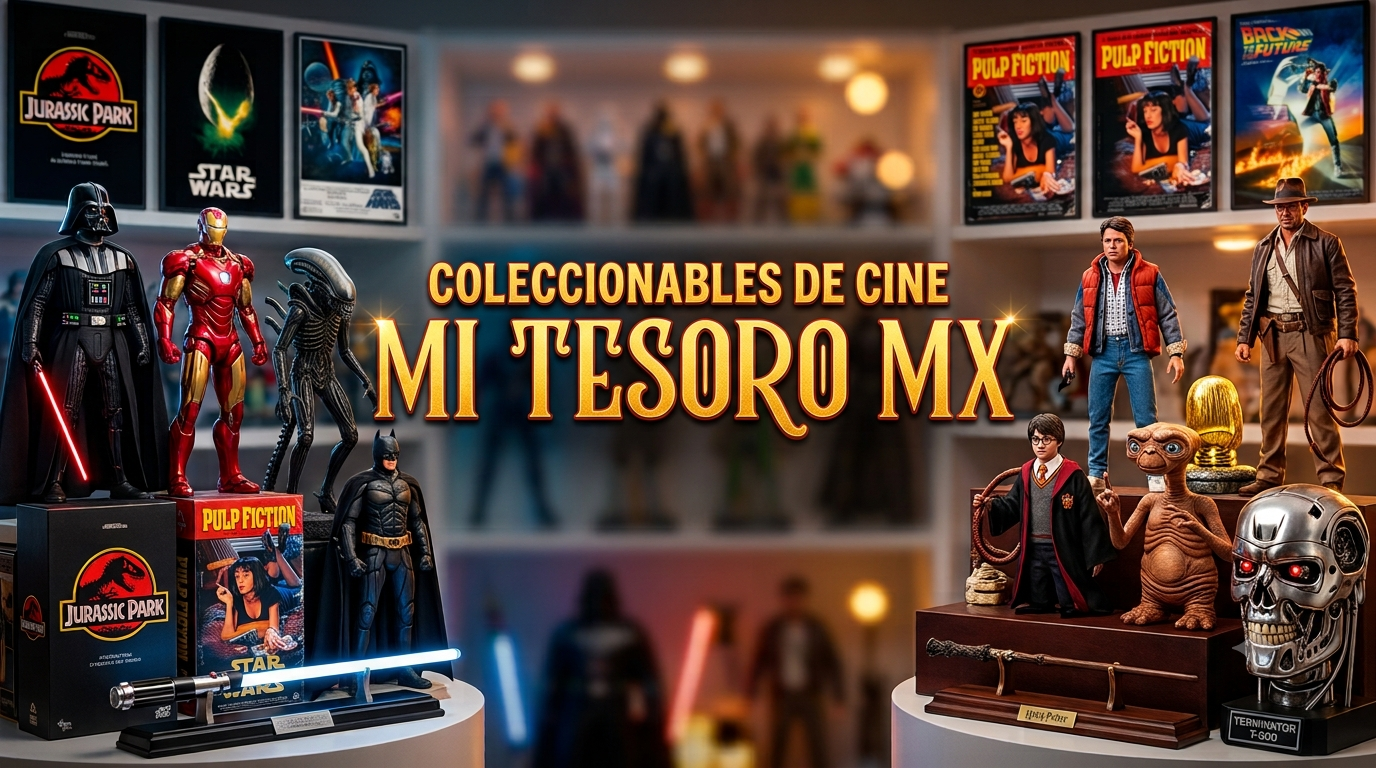
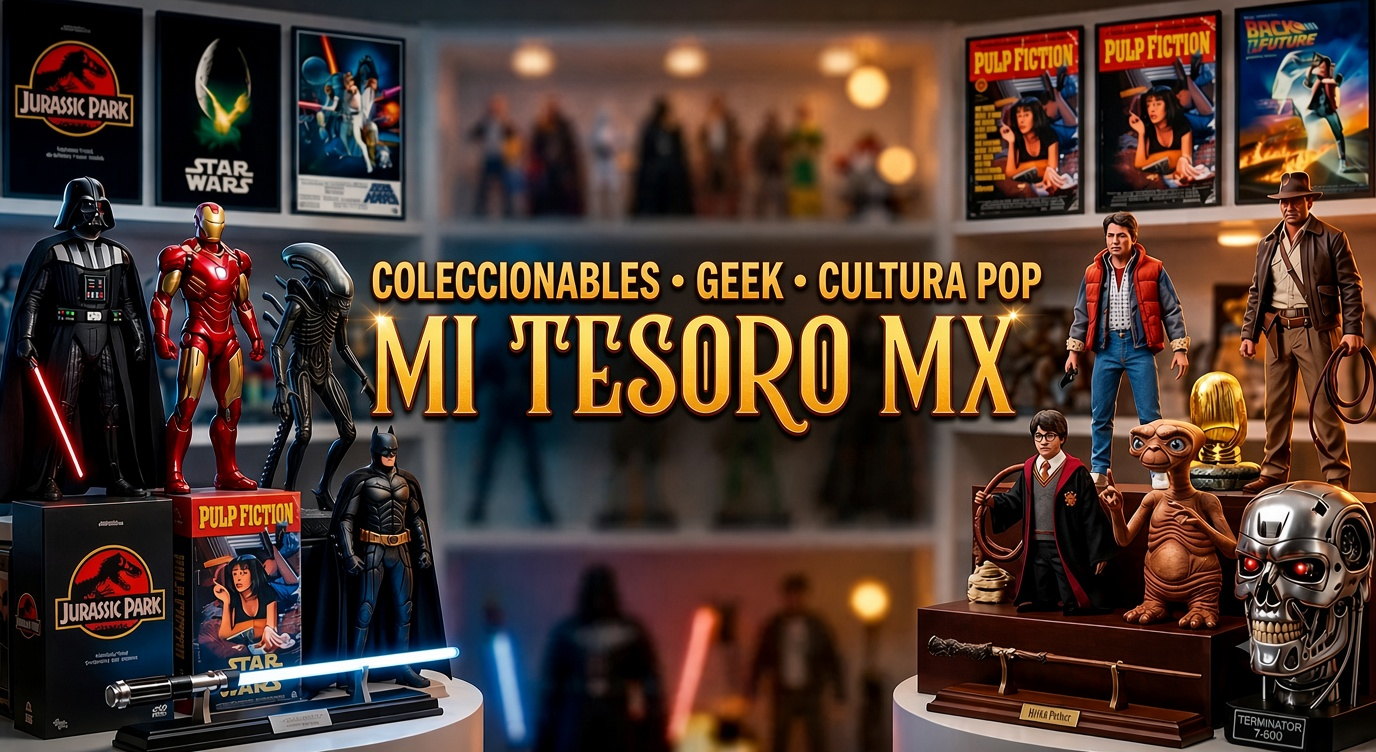
cambios nuevos

diff --git a/script.js b/script.js
@@ -624,8 +624,8 @@ function mostrarProductos() {
                    : ""
                }
 
-               ${p.stock > 0 && p.precio != 999 && p.precio != 333
-                 ? `<p class="viendo-ahora">👀 ${viendo} persona${viendo === 1 ? "" : "s"} viendo esto</p>`
+               ${p.stock > 0 && p.stock <= 5 && p.precio != 999 && p.precio != 666
+                 ? `<p class="viendo-ahora">👀 ${Math.min(p.stock + 1, 4)} persona${p.stock === 1 ? "" : "s"} viendo esto</p>`
                  : ""
                }
             <button type="button" class="btn-wishlist ${esFavorito ? "activo" : ""}"
@@ -979,18 +979,21 @@ function actualizarCarritoUI() {
        </div>
      </div>
 
-     ${cuponAplicado ? `
-       <div class="cart-coupon-activo">
-         <span>Cupón <strong>${cuponAplicado.codigo}</strong> aplicado</span>
-         <button type="button" id="btnBorrarCupon" class="btn-borrar-cupon">Borrar cupón</button>
-       </div>
-     ` : `
-       <div class="cart-coupon">
-         <input type="text" id="inputCupon" placeholder="Código de cupón" maxlength="20" autocomplete="off">
-         <button type="button" id="btnAplicarCupon">Aplicar</button>
-       </div>
-       <p id="cuponMsg" class="cupon-msg" hidden></p>
-     `}
+    ${cuponAplicado ? `
+      <div class="cart-coupon-activo">
+        <span>Cupón <strong>${cuponAplicado.codigo}</strong> aplicado</span>
+        <button type="button" id="btnBorrarCupon" class="btn-borrar-cupon">Borrar cupón</button>
+      </div>
+    ` : `
+      <div class="cart-coupon">
+        <label class="cupon-label">¿Tienes un cupón?</label>
+        <div class="cupon-row">
+          <input type="text" id="inputCupon" placeholder="Código de cupón" maxlength="20" autocomplete="off">
+          <button type="button" id="btnAplicarCupon">Aplicar</button>
+        </div>
+      </div>
+      <p id="cuponMsg" class="cupon-msg" hidden></p>
+    `}
 
      <div class="cart-notas">
        <label for="notasCliente">Notas del pedido (opcional)</label>
@@ -1115,6 +1118,8 @@ function actualizarWhats(totales) {
   }
 
   const notas = document.getElementById("notasCliente")?.value?.trim() || "";
+  const cp = document.getElementById("inputCP")?.value?.trim() || "";
+  const ciudad = document.getElementById("inputCiudad")?.value?.trim() || "";
   const tipoPago = window._tipoPagoSeleccionado || "Pago total";
 
   let msg = `Hola 👋\nSoy cliente de *Mi Tesoro MX* y quiero confirmar este pedido:\n\n`;
@@ -1136,23 +1141,49 @@ function actualizarWhats(totales) {
   msg += `*TOTAL: $${totales.total.toLocaleString("es-MX")} MXN*\n`;
   msg += `━━━━━━━━━━━━━━━━\n`;
   msg += `*Tipo de pago:* ${tipoPago}\n`;
-  msg += `*Código Postal:* \n`;
-  msg += `*Ciudad / Estado:* \n`;
+
+  if (tipoPago === "Apartado 30%") {
+    const apartado = Math.ceil(totales.total * 0.3);
+    msg += `*Apartado 30%:* $${apartado.toLocaleString("es-MX")} MXN\n`;
+  }
+
+  msg += `*Código Postal:* ${cp || "(pendiente)"}\n`;
+  msg += `*Ciudad / Estado:* ${ciudad || "(pendiente)"}\n`;
   if (notas) msg += `*Notas:* ${notas}\n`;
+  msg += `\n*Política de daños:* Si llega dañado por el envío, se regala un vaso en la próxima compra (sin reembolso ni reposición).\n`;
   msg += `\nQuedo atento(a) para confirmar disponibilidad y forma de envío.\n¡Gracias! 🎬`;
 
   const whatsBtn = document.getElementById("whatsBtn");
   if (whatsBtn) {
     whatsBtn.href = `https://wa.me/${WA_NUMERO}?text=${encodeURIComponent(msg)}`;
-  }
-
-  // Actualizar texto del botón según tipo de pago
-  if (whatsBtn) {
     whatsBtn.textContent = tipoPago === "Apartado 30%"
       ? `Apartar con 30% · $${Math.ceil(totales.total * 0.3).toLocaleString("es-MX")}`
       : `Confirmar pedido · $${totales.total.toLocaleString("es-MX")} MXN`;
   }
 }
+
+document.getElementById("whatsBtn")?.addEventListener("click", (e) => {
+  const cp = document.getElementById("inputCP")?.value?.trim() || "";
+  const ciudad = document.getElementById("inputCiudad")?.value?.trim() || "";
+  const errorEl = document.getElementById("envioDatosError");
+
+  if (!cp || !ciudad) {
+    e.preventDefault();
+    if (errorEl) {
+      errorEl.hidden = false;
+      errorEl.scrollIntoView({ behavior: "smooth", block: "nearest" });
+    }
+    document.getElementById("inputCP")?.focus();
+    return;
+  }
+  if (errorEl) errorEl.hidden = true;
+});
+
+["inputCP", "inputCiudad", "notasCliente"].forEach((id) => {
+  document.getElementById(id)?.addEventListener("input", () => {
+    actualizarWhats(calcularTotalesCarrito());
+  });
+});
 
 function actualizarContadorCarrito(conPulso = false) {
   const totalItems = carrito.reduce((acc, p) => acc + p.cantidad, 0);
@@ -1174,31 +1205,6 @@ function actualizarEstadoVaciar() {
   }
 }
 
-/* Barra envío gratis ($550 Correos, productos participantes) */
-function actualizarEnvioGratisBar(total) {
-  const bar = document.getElementById("envioGratisBar");
-  const text = document.getElementById("envioGratisText");
-  const fill = document.getElementById("envioGratisFill");
-  if (!bar || !text || !fill) return;
-
-  if (!total || total <= 0) {
-    bar.hidden = true;
-    return;
-  }
-
-  bar.hidden = false;
-  const pct = Math.min(100, Math.round((total / ENVIO_GRATIS_MIN) * 100));
-  fill.style.width = pct + "%";
-
-  if (total >= ENVIO_GRATIS_MIN) {
-    text.innerHTML = `🎉 ¡Tienes <strong>envío gratis</strong> por Correos de México! (productos participantes)`;
-    fill.classList.add("completo");
-  } else {
-    const falta = ENVIO_GRATIS_MIN - total;
-    text.innerHTML = `Te faltan <strong>$${falta.toLocaleString("es-MX")} MXN</strong> para envío gratis por Correos*`;
-    fill.classList.remove("completo");
-  }
-}
 
 /* ---------- VACIAR CARRITO (con confirmación) ---------- */
 btnVaciarCarrito?.addEventListener("click", () => {

diff --git a/index.html b/index.html
@@ -3,8 +3,8 @@
 <head>
     <meta charset="UTF-8">
     <meta name="viewport" content="width=device-width, initial-scale=1.0">
-    <meta name="description" content="Mi Tesoro MX – Coleccionables de cine: palomeras, vasos, Funkos y ediciones exclusivas. Envíos a todo México.">
-    <title>Mi Tesoro MX | Coleccionables de Cine</title>
+    <meta name="description" content="Mi Tesoro MX – Coleccionables, Geek y Cultura Pop.">
+    <title>Mi Tesoro MX | Coleccionables, Geek y Cultura Pop</title>
 
     <!-- Favicon -->
     <link rel="icon" href="imgs/logo.png" type="image/png" sizes="32x32">
@@ -13,7 +13,7 @@
     <!-- Open Graph (WhatsApp / Facebook / Telegram) -->
     <meta property="og:type" content="website">
     <meta property="og:title" content="Mi Tesoro MX | Coleccionables de Cine">
-    <meta property="og:description" content="Palomeras, vasos, Funkos y ediciones exclusivas. Envíos a todo México. Mejores precios que en Mercado Libre.">
+    <meta property="og:description" content="Coleccionables, Geek y Cultura Pop.">
     <meta property="og:url" content="https://mitesoromx.com/">
     <meta property="og:locale" content="es_MX">
     <meta property="og:site_name" content="Mi Tesoro MX">
@@ -25,7 +25,7 @@
     <!-- Twitter / X -->
     <meta name="twitter:card" content="summary_large_image">
     <meta name="twitter:title" content="Mi Tesoro MX | Coleccionables de Cine">
-    <meta name="twitter:description" content="Palomeras, vasos, Funkos y ediciones exclusivas. Envíos a todo México.">
+    <meta name="twitter:description" content="Coleccionables, Geek y Cultura Pop.">
     <meta name="twitter:image" content="https://mitesoromx.com/og-image.jpg">
 
     <link rel="canonical" href="https://mitesoromx.com/">
@@ -82,7 +82,7 @@
         <img src="imgs/logo.png" alt="Mi Tesoro MX" class="site-logo">
         <div class="logo-text">
             <h1>Mi Tesoro MX</h1>
-            <span>Coleccionables de Cine</span>
+            <span>Coleccionables, Geek y Cultura Pop</span>
         </div>
     </div>
 
@@ -116,7 +116,7 @@
     <div class="hero-overlay"></div>
     <div class="hero-content">
         <h2>La tienda de coleccionistas que sí cumple</h2>
-        <p>Palomeras · Vasos · Funkos · Postales</p>
+        <p>Coleccionables de Cine, Geek y Cultura Pop</p>
         <a href="#catalogo" class="hero-cta">Ver catálogo completo</a>
     </div>
 </section>
@@ -251,14 +251,14 @@
     </div>
 </div>
 
-<!-- FILTROS POR FRANQUICIA
 <div class="filtros-extra-wrap" style="margin-top: 6px;">
     <div class="filtros-extra" id="filtrosFranquicia" role="group" aria-label="Filtros por franquicia">
+        <button type="button" class="filtro-extra active" data-franquicia="todas" aria-pressed="true">Todas</button>
         <button type="button" class="filtro-extra" data-franquicia="marvel" aria-pressed="false">Marvel</button>
         <button type="button" class="filtro-extra" data-franquicia="starwars" aria-pressed="false">Star Wars</button>
         <button type="button" class="filtro-extra" data-franquicia="dc" aria-pressed="false">DC</button>
     </div>
-</div> -->
+</div>
 
 
 <!-- FILTROS CATEGORÍA
@@ -387,6 +387,16 @@
             <div class="envio-gratis-track">
                 <div class="envio-gratis-fill" id="envioGratisFill"></div>
             </div>
+        </div>
+
+        <div class="cart-envio-datos">
+            <label for="inputCP">Código Postal *</label>
+            <input type="text" id="inputCP" inputmode="numeric" maxlength="5" placeholder="Ej. 37000" autocomplete="postal-code">
+
+            <label for="inputCiudad">Ciudad / Estado *</label>
+            <input type="text" id="inputCiudad" placeholder="Ej. León, Gto." autocomplete="address-level2">
+
+            <p id="envioDatosError" class="envio-datos-error" hidden>Completa Código Postal y Ciudad para continuar</p>
         </div>
 
         <div class="pasos-carrito">

diff --git a/styles.css b/styles.css
@@ -4200,3 +4200,17 @@ body.dark .btn-ver-referencias:focus-visible {
   border-color: rgba(255, 255, 255, 0.35);
   color: #fff;
 }
+
+.cupon-label {
+  display: block;
+  font-size: 0.85rem;
+  margin-bottom: 6px;
+  opacity: 0.85;
+}
+.cupon-row {
+  display: flex;
+  gap: 8px;
+}
+.cupon-row input {
+  flex: 1;
+}
